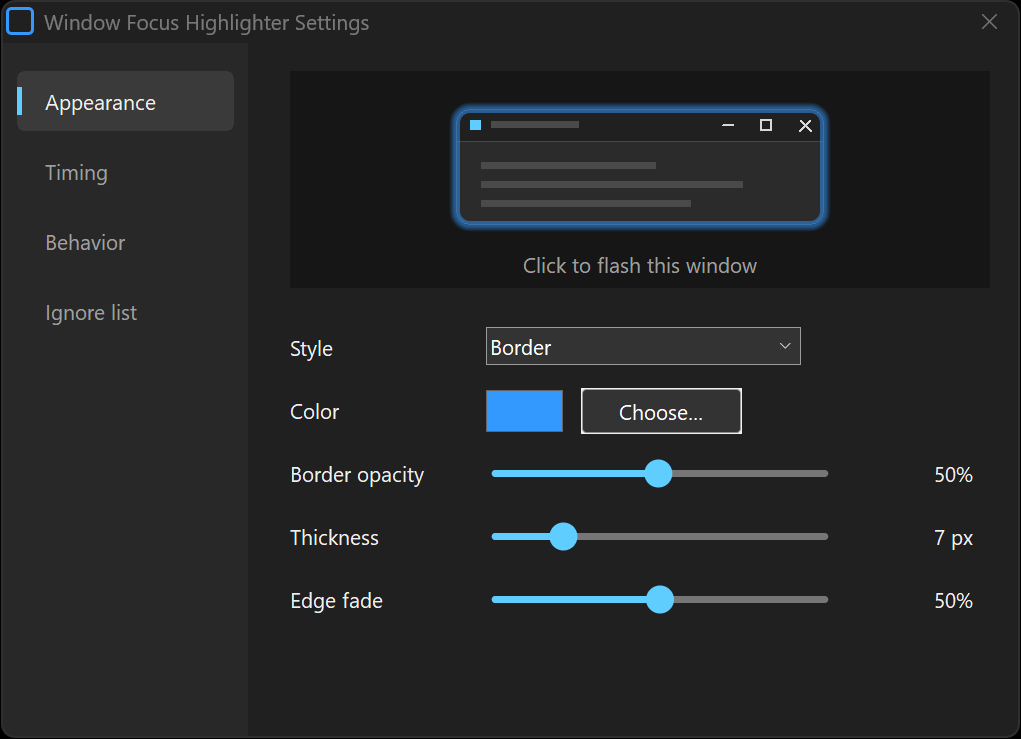
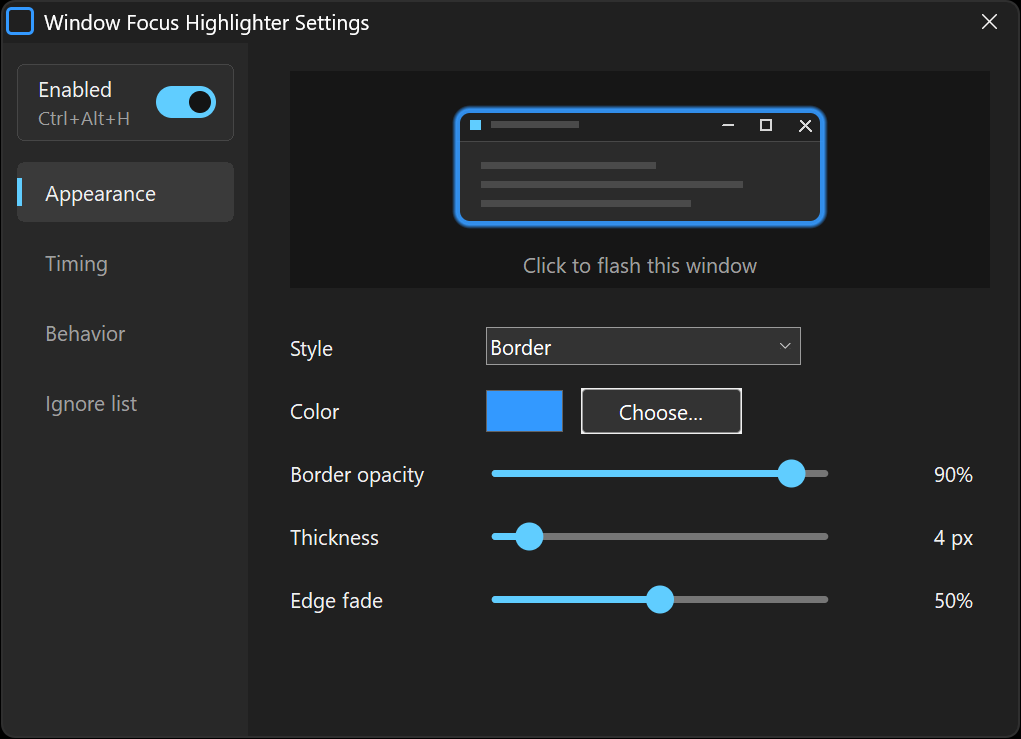
Refresh site screenshots and add light-mode variants

diff --git a/docs/index.html b/docs/index.html
@@ -67,7 +67,8 @@ h2{font-size:1.6rem;margin:72px 0 20px;text-align:center;letter-spacing:-.01em}
 .tabs{text-align:center}
 .tabs input{position:absolute;opacity:0;pointer-events:none}
 .tabs label{display:inline-block;padding:7px 16px;margin:0 3px 14px;border-radius:99px;cursor:pointer;color:var(--mute);border:1px solid var(--line);font-size:.95rem}
-.tabs img{display:none;width:100%;max-width:680px;height:auto;border-radius:10px;box-shadow:0 10px 40px #0004;margin:0 auto}
+.tabs picture{display:none}
+.tabs img{display:block;width:100%;max-width:680px;height:auto;border-radius:10px;box-shadow:0 10px 40px #0004;margin:0 auto}
 #t1:checked~.p1,#t2:checked~.p2,#t3:checked~.p3{display:block}
 #t1:checked~label[for=t1],#t2:checked~label[for=t2],#t3:checked~label[for=t3]{background:var(--accent);border-color:var(--accent);color:#fff}
 #t1:focus-visible~label[for=t1],#t2:focus-visible~label[for=t2],#t3:focus-visible~label[for=t3]{outline:2px solid var(--fg);outline-offset:2px}
@@ -114,9 +115,9 @@ footer{margin:64px 0 40px;text-align:center;color:var(--mute);font-size:.9rem}
 <div class="tabs">
 <input type="radio" name="t" id="t1" checked><input type="radio" name="t" id="t2"><input type="radio" name="t" id="t3">
 <label for="t1">Appearance</label><label for="t2">Timing</label><label for="t3">Behavior</label>
-<img class="p1" src="img/appearance.png" width="1021" height="739" alt="Appearance settings: style, color, opacity, thickness and edge fade, with a live preview" loading="lazy">
-<img class="p2" src="img/timing.png" width="1021" height="739" alt="Timing settings: how long the highlight shows and how long it takes to fade" loading="lazy">
-<img class="p3" src="img/behavior.png" width="1021" height="739" alt="Behavior settings: enable, start with Windows and the toggle hotkey" loading="lazy">
+<picture class="p1"><source media="(prefers-color-scheme:dark)" srcset="img/appearance.png"><img src="img/appearance-light.png" width="1021" height="739" alt="Appearance settings: style, color, opacity, thickness and edge fade, with a live preview" loading="lazy"></picture>
+<picture class="p2"><source media="(prefers-color-scheme:dark)" srcset="img/timing.png"><img src="img/timing-light.png" width="1021" height="739" alt="Timing settings: how long the highlight shows and how long it takes to fade" loading="lazy"></picture>
+<picture class="p3"><source media="(prefers-color-scheme:dark)" srcset="img/behavior.png"><img src="img/behavior-light.png" width="1021" height="739" alt="Behavior settings: enable, start with Windows and the toggle hotkey" loading="lazy"></picture>
 </div>
 
 <div style="text-align:center;margin-top:48px"><a class="btn" href="https://github.com/priomsrb/window-focus-highlighter/releases/latest">Download</a> <a class="btn alt" href="https://github.com/priomsrb/window-focus-highlighter">GitHub</a></div>
